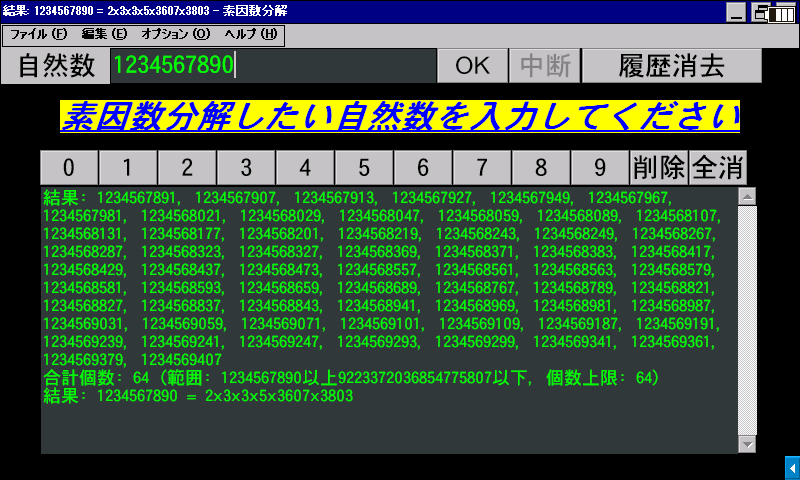
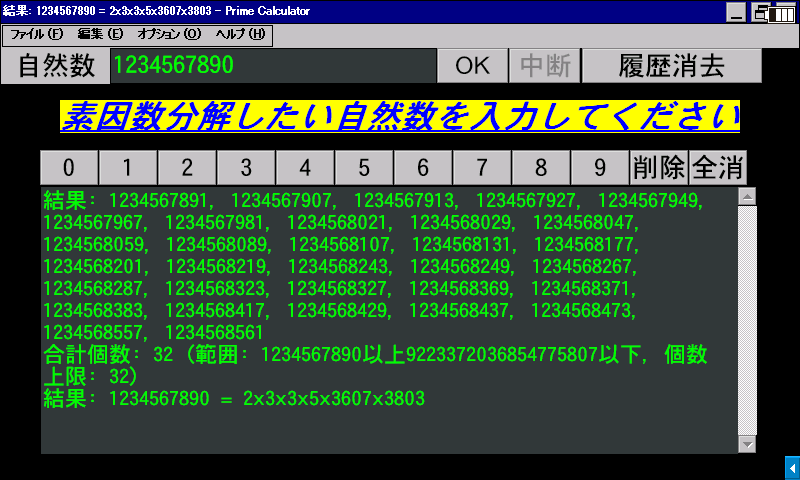
Update font size and some texts

Changed region(s): [[0.0312, 0.375, 0.9062, 0.875], [0.0312, 0.0, 0.4062, 0.0938]]

diff --git a/src/msg.cpp b/src/msg.cpp
@@ -273,10 +273,10 @@ void onSize(HWND hWnd, unsigned state, int cx, int cy) {
   hFbtn = CreateFontIndirectW(&rLogfont);
 
   // Font for the output box
-  if (16 * scrx / 700 < 16 * scry / 400) {
-    rLogfont.lfHeight = 16 * scrx / 700;
+  if (20 * scrx / 700 < 20 * scry / 400) {
+    rLogfont.lfHeight = 20 * scrx / 700;
   } else {
-    rLogfont.lfHeight = 16 * scry / 400;
+    rLogfont.lfHeight = 20 * scry / 400;
   }
   if (rLogfont.lfHeight < 12) rLogfont.lfHeight = 12;
   rLogfont.lfWidth = 0;

diff --git a/README-ja.md b/README-ja.md
@@ -1,4 +1,4 @@
-# 素因数分解
+# Prime Calculator
 
 [English](README.md) / **日本語**
 
@@ -28,9 +28,9 @@ SHARP Brain への導入方法は [Brain Wiki](https://brain.fandom.com/ja/wiki/
 
 起動すると素因数分解モードになります。素因数分解したい数を画面上部の入力ボックスに入力し、OK か Enter キーを押すと計算を開始します。
 
-メニューバーのオプションから素数列挙・数え上げの機能に切り替えられます。探す範囲と上限の個数を指定し、OK または Enter キーを押すと計算を開始します。空欄は無制限として扱われます。出力ボックスには 65,535 文字の字数上限があるのでテキストファイル出力も可能です（画面より高速）。
+メニューバーのオプションから素数列挙・数え上げの機能に切り替えられます。探す範囲と個数上限を指定し、OK または Enter キーを押すと計算を開始します。空欄は無制限として扱われます。出力ボックスには 65,535 文字の字数上限があるのでテキストファイル出力も可能です（画面より高速）。
 
-「ファイル」から出力ボックスの内容をテキストファイルに書き出したり、クリップボードにコピーしたりできます。表示言語はオプションの Language で切り替えます。数字キーがないデバイスでも、画面上のボタンやキーボードの QWERTY 列（アルファベット入力状態のままで OK）で数値入力できます。
+「ファイル」から出力ボックスの内容をテキストファイルに書き出せます。表示言語はオプションの Language で切り替えます。数字キーがないデバイスでも、画面上のボタンやキーボードの QWERTY 列（アルファベット入力状態のままで OK）で数値入力できます。
 
 ## ビルド
 
@@ -46,7 +46,7 @@ SHARP Brain への導入方法は [Brain Wiki](https://brain.fandom.com/ja/wiki/
   - [CeGCC (GCC 9)](https://github.com/brain-hackers/cegcc-build/releases) に PATH が通っている必要があります
   - 環境変数 `PREFIX` を設定し、別のツールチェーンを使うことも可能です
 - [Pocket GCC 1.50](https://ux.getuploader.com/brainup2ch/download/37) via [`src/pgcc.bat`](src/pgcc.bat)
-  - Windows CE 端末に [Brain Wiki](https://brain.fandom.com/ja/wiki/%E3%83%97%E3%83%AD%E3%82%B0%E3%83%A9%E3%83%9F%E3%83%B3%E3%82%B0) 等を参考に PocketGCC 1.50 と DOS窓Open を導入し、[`src/pgcc.bat`](src/pgcc.bat) でビルドしてください
+  - Windows CE 端末に [Brain Wiki](https://brain.fandom.com/ja/wiki/%E3%83%97%E3%83%AD%E3%82%B0%E3%83%A9%E3%83%9F%E3%83%B3%E3%82%B0) 等を参考に PocketGCC 1.50 と DOS 窓 Open を導入し、[`src/pgcc.bat`](src/pgcc.bat) でビルドしてください
   - `src` フォルダだけ転送し、適宜バッチファイル冒頭のパスを書き換えれば OK です
   - eMbedded Visual C++ 4.0 の Standard SDK 等からコピーした `commctrl.lib` をリンカに読み込ませる必要があります（大量の警告が出ますが問題ありません）
 
@@ -64,7 +64,7 @@ src/
 │
 └─ resource*.rc / resource.h : Resource
     ├─ app*.ico : Application icon
-    └─ app.manifest : Application manifest
+    └─ app.manifest : Application manifest for desktop platforms
 ```
 
 ## 利用許諾条件（ライセンス）

diff --git a/README.md b/README.md
@@ -26,11 +26,11 @@ Read [Brain Wiki](https://brain.fandom.com/ja/wiki/%E3%82%A2%E3%83%97%E3%83%AA%E
 
 Download an appropriate one from [Releases](../../releases) and run it on your device. No installation needed. You can also uninstall this software just by removing the executable file itself, as it doesn't touch the system registry or such.
 
-You will first see the "Prime Factorization" mode. Enter a natural number in the input box and press the OK button or the Enter key, to get the result.
+You will first see the "Prime Factorization" mode. Enter a natural number in the input box and press the OK button or the Enter key, to start a calculation.
 
 You can switch to the "Enumerate Prime Numbers" mode in the Options menu. Specify a range to enumerate prime numbers and a max count within, and press the OK button or the Enter key to start. Text file output is also available as the output box can only hold up to 65,535 characters (faster than screen).
 
-You can use the File menu to export the contents in the output box to a text file or copy it to the clipboard. Also, you can use the top row (QWERTY...) keys to input numbers if your device does not have number keys.
+You can use the File menu to export the content of the output box to a text file, and you can use the top row (QWERTY...) keys to input numbers if your device does not have number keys.
 
 ## How to Build
 
@@ -64,7 +64,7 @@ src/
 │
 └─ resource*.rc / resource.h : Resource
     ├─ app*.ico : Application icon
-    └─ app.manifest : Application manifest
+    └─ app.manifest : Application manifest for desktop platforms
 ```
 
 ## License
